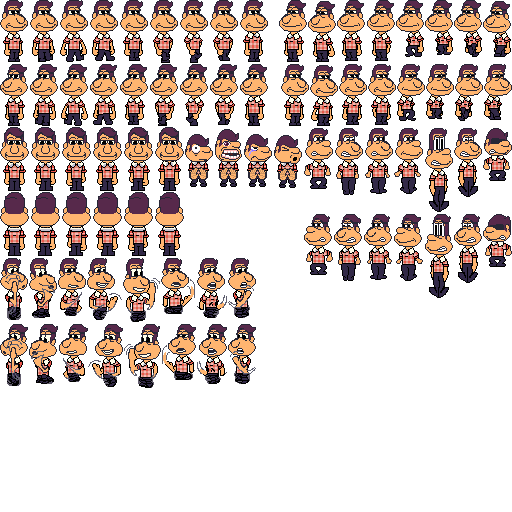
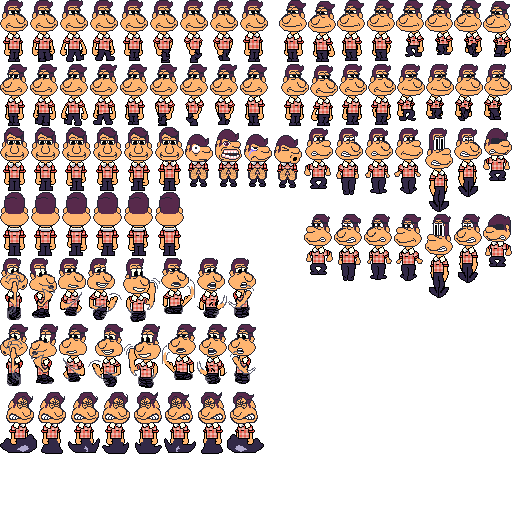
added new entities :signs, wooden signs and info signs that display text when collided with

Changed region(s): [[0.0, 0.75, 0.5312, 0.9062]]

diff --git a/lib/coll.js b/lib/coll.js
@@ -58,7 +58,33 @@ let i = 0,
 // for debuging purposes only
 // will likely be un reachable by any normal button again
 //lol no it became a new mechanic well known as "pausing the game"
+const dialog = {
+  text: "nothing yet",
+  SpX: 0,
+  SpY: 0,
+  sw: 0,
+  sh: 0,
+};
+dialog.draw = () => {
+  console.log("07");
 
+  c.drawImage(
+    images.dialog,
+    dialog.SpX,
+    dialog.SpY,
+    dialog.sw,
+    dialog.sh,
+    100,
+    20,
+    800,
+    250
+  );
+
+  c.fillStyle = dialog.font;
+  c.font = "25px p2p";
+
+  drawMultilineText(c, dialog.text, 160, 150, 28);
+};
 const menuBut = () => {
   if (!menuMode) {
     PpN.timeRatekoff = PpN.timeRatekoff ? 0 : 0.1;
@@ -532,6 +558,9 @@ class scene {
             case "effect":
               B.chkCol(A);
               break;
+            case "ent":
+              B.chkCol(A);
+              break;
           }
         }
       }
@@ -654,7 +683,7 @@ class scene {
   }
 }
 class entity {
-  constructor(x, y, id) {
+  constructor(x, y, id, dd) {
     this.type = "ent";
     this.w;
     this.h;
@@ -666,6 +695,7 @@ class entity {
     this.lstSta = 0;
     this.alert = false;
     this.agro = false;
+    this.dd = dd;
     switch (id) {
       case "01":
         this.w = 30;
@@ -695,6 +725,29 @@ class entity {
           },
         };
 
+        break;
+      case "02":
+        this.color = images.dialog;
+
+        this.SpY = 28;
+        this.SpX = 0;
+        this.size = 5;
+        dialog.text = this.dd;
+        this.w = 22 * this.size;
+        this.h = 31 * this.size;
+        this.y -= this.h;
+        break;
+
+      case "03":
+        this.color = images.dialog;
+
+        this.SpY = 0;
+        this.SpX = 0;
+        this.size = 5;
+        dialog.text = this.dd;
+        this.w = 16 * this.size;
+        this.h = 27 * this.size;
+        this.y -= this.h;
         break;
     }
     this.action = (obj) => {
@@ -726,6 +779,25 @@ class entity {
           this.alert ? this.anims.AR(obj) : this.anims.NR(obj);
           this.x += this.velX;
           break;
+      }
+    };
+    this.chkCol = () => {
+      if (id == "03" || id == "02") {
+        if (id == "02") {
+          dialog.SpY = 69;
+          dialog.SpX = 0;
+          dialog.sw = 80;
+          dialog.sh = 33;
+          dialog.font = "rgb(87,41,75)";
+        } else {
+          dialog.SpY = 104;
+          dialog.SpX = 0;
+          dialog.sw = 80;
+          dialog.sh = 33;
+          dialog.font = "rgb(255,255,255)";
+        }
+        dialog.text = this.dd;
+        dialog.draw();
       }
     };
   }
@@ -1043,7 +1115,4 @@ class menus {
       }
     };
   }
-}
-class dialog {
-  constructor(x, y, kind, dialog) {}
 }

diff --git a/index.js b/index.js
@@ -110,6 +110,8 @@ const images = {
   fingU: new Image(),
   fingLU: new Image(),
   joyhubU: new Image(),
+  dialog: new Image(),
+  tools: new Image(),
 };
 
 let promises = [],
@@ -331,7 +333,12 @@ characters = {
     },
   },
 };
-
+function drawMultilineText(ctx, text, x, y, lineHeight = 20) {
+  const lines = text.split("\n");
+  lines.forEach((line, i) => {
+    ctx.fillText(line, x, y + i * lineHeight);
+  });
+}
 //promise footer
 Promise.allSettled(promises)
   .then(() => {
@@ -408,7 +415,11 @@ Promise.allSettled(promises)
               3,
               66
             ),
+              new entity(1150, 661, "02","the forest's east from here"),
+              new entity(1500, 661, "03",
+              "07"),
             new door(1900, 400, 1, 0, 200, 730),
+
 
           ],
           1600,
@@ -563,6 +574,8 @@ Promise.allSettled(promises)
             } else {
               world.entities[seekl - 2].YesDraw = 1;
             }
+
+            world.entities[11].dd = `this seems like an obstacle \n blocking your path`;
 
             break;
           case 1:
